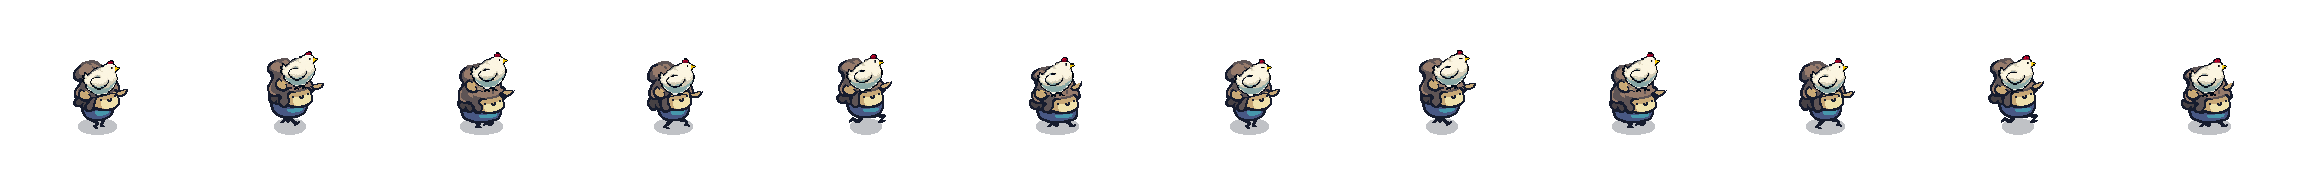
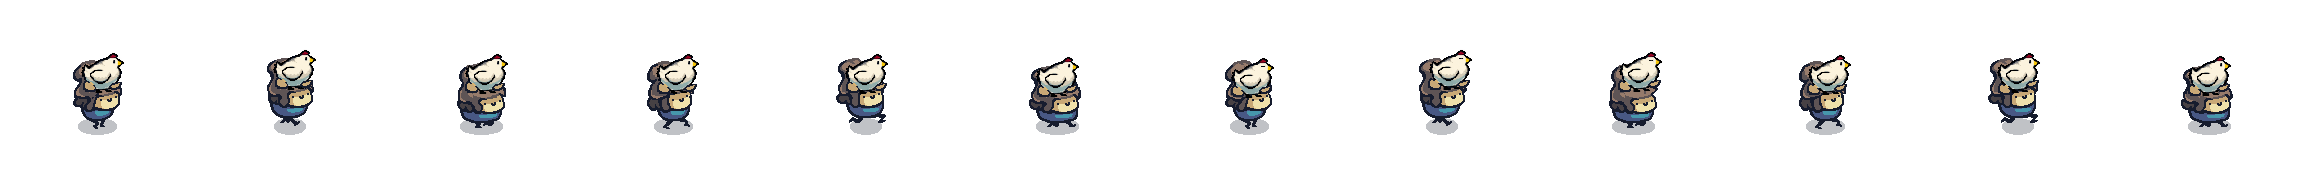
Restore chicken carrying with updated idle and run sprites (#507)

diff --git a/godot/tiny-swords/README.md b/godot/tiny-swords/README.md
@@ -1235,9 +1235,8 @@ pawn is stationary. Pawn contact interrupts following and triggers escape over 3
 including shorter and sideways fallbacks. It follows the same paths through bushes,
 rocks and connected stairs, avoiding tree, log and house contact footprints.
 If the pawn shares the chicken's tile and floor and no safe first step leads away
-or sideways, the pawn picks it up. The original Wood carrying poses now have
-chicken idle/run sheets composed from the existing pawn and chicken pixels; the
-chicken retains its 59.5% scale. The pawn carries one chicken for one minute,
+or sideways, the pawn picks it up. The supplied carrying-chicken sheets use eight idle frames and twelve run frames
+at 10 fps, with 192×192 cells. The pawn carries one chicken for one minute,
 then puts it on nearby reachable grass, using the same tile on a tiny island.
 It waits for a safe landing if the pawn is on a ramp without room. A bird put down
 on the pawn's tile cannot be picked up again until the pawn leaves that tile.
@@ -1250,12 +1249,11 @@ Unreachable actions and ordinary walking retain the bird. Water falls use the
 same chicken-carrying frames, so it shares the pawn's fall, fade and respawn.
 An expired carry deadline waits until the pawn returns to land before put-down.
 Focused action/water check: `res://tests/chicken_carry_actions.gd`.
-Chicken carrying is currently disabled by `gameplay/chicken_carry_enabled=false`
-in `project.godot`. Cornered birds stay on the ground. Existing carried birds are
-put down on the first safe landing, preserving them across reloads and falls.
-To reactivate carrying, set that setting to `true` and rebuild the integrated
-preview. The carry scripts, animations and enabled-mode checks remain intact.
-Regenerate the composite sheets with `tools/generate_chicken_carry.py` (Pillow).
+Chicken carrying is enabled by `gameplay/chicken_carry_enabled=true` in
+`project.godot`. The supplied artwork lives in `assets/pawn/chicken_carry_idle.png`
+and `chicken_carry_run.png`; the older composite generator is not their source.
+Run `previews/chicken_carry_sandbox.tscn` with F6 for a fresh meadow that starts
+with a carried bird. Reload to restart the one-minute carry timer.
 
 When a sheep enters its grass tile, the chicken moves one reachable adjacent grass
 tile away, avoiding tiles occupied by sheep or the pawn. If none is available, it waits.
